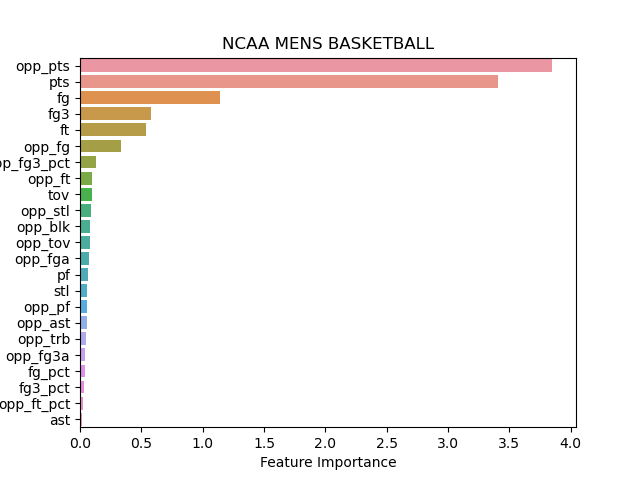
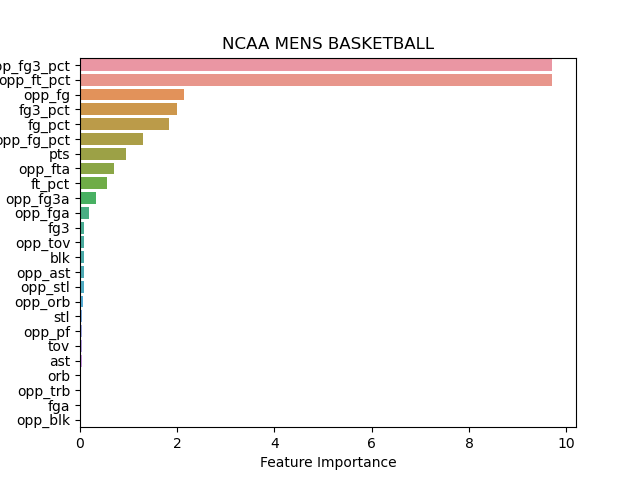
change correl coeff and add correl plotting

diff --git a/march_mad_2022.py b/march_mad_2022.py
@@ -15,7 +15,7 @@ from sklearn.linear_model import LogisticRegression
 # from sklearn.gaussian_process import GaussianProcessClassifier
 # from sklearn.linear_model import Perceptron
 from sklearn.neural_network import MLPClassifier
-from sklearn.preprocessing import MinMaxScaler
+# from sklearn.preprocessing import MinMaxScaler
 # from sklearn.decomposition import PCA
 from sklearn.metrics import accuracy_score
 from sklearn.model_selection import train_test_split#,RandomizedSearchCV
@@ -24,7 +24,8 @@ import seaborn as sns
 import matplotlib.pyplot as plt
 import pandas as pd
 import numpy as np
-from sklearn.metrics import classification_report
+# from sklearn.metrics import classification_report
+import seaborn as sns
 
 class marchMad:
     def __init__(self):
@@ -295,23 +296,30 @@ class marchMad:
             plt.ylabel('Features')
             plt.title('NCAA MENS BASKETBALL')
             plt.savefig('feature_importances.png')
+            plt.close()
         # if self.name == 'MLPClass':
         #     feature_imp = pd.Series(np.abs(self.model_save.coefs_),index=self.x_test.columns).sort_values(ascending=False) #feature_importances_
     def correlate_analysis(self):
-        corr_matrix = self.x.astype(float).corr()
+        corr_matrix = np.abs(self.x.astype(float).corr())
         upper = corr_matrix.where(np.triu(np.ones(corr_matrix.shape), k=1).astype(np.bool))
         # Find features with correlation greater than 0.90
-        to_drop = [column for column in upper.columns if any(upper[column] > 0.85)]
+        to_drop = [column for column in upper.columns if any(upper[column] >= 0.80)]
         print('drop these:', to_drop)
         self.drop_cols = to_drop
         self.x_no_corr = self.x.drop(columns=to_drop)
+        top_corr_features = corr_matrix.index
+        plt.figure(figsize=(20,20))
+        #plot heat map
+        g=sns.heatmap(corr_matrix[top_corr_features],annot=True,cmap="RdYlGn")
+        plt.savefig('correlations.png')
+        plt.close()
         
 
 if __name__ == '__main__':
     start_time = time.time()
     mad = marchMad()
     mad.input_arg()
-    mad.get_teams(2019)
+    mad.get_teams(2022)
     mad.split()
     mad.machine()
     mad.compare_two_teams()
